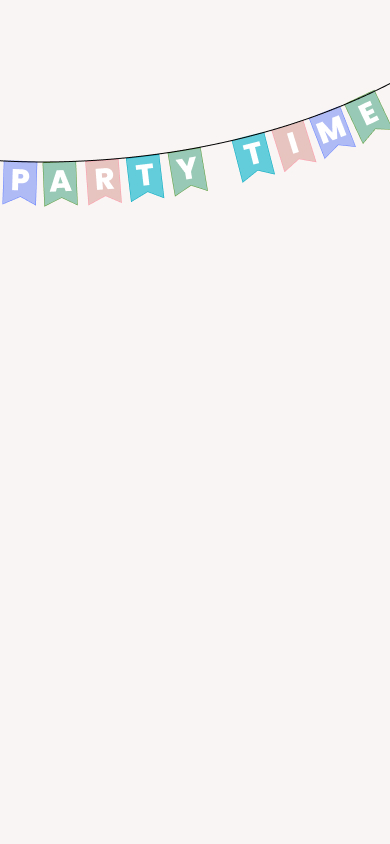
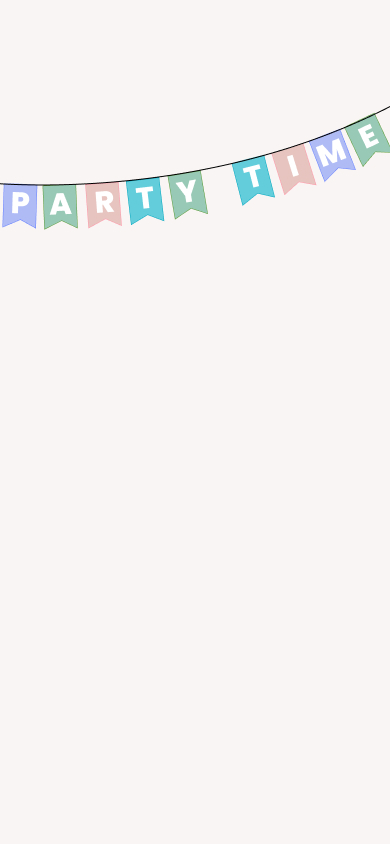
finished html and css for madlibs

Changed region(s): [[0.0, 0.154, 0.5538, 0.2773], [0.5846, 0.0924, 1.0, 0.2464]]

diff --git a/studio1/styles.css b/studio1/styles.css
@@ -1,14 +1,15 @@
 body {
     background-image: url("images/madlibs-background-mobile.jpg");
-    background-size: contain;
+    background-size: cover;
     background-repeat: no-repeat;
     background-color: #F9F5F4;
+    overflow-y: hidden;
 }
 
 form {
     display: flex;
     flex-direction: column;
-    margin-top: 50px;
+    margin-top: 75px;
 }
 
 .form-question {
@@ -24,7 +25,7 @@ input {
 
 label {
     display: block;
-    margin-top: 25px;
+    margin-top: 10px;
     font-family: 'Poppins', sans-serif;
     font-size: 18px;
     font-weight: 400;
@@ -55,6 +56,18 @@ h2 {
     font-weight: 700;
     text-align: center;
     color: #59669B;
+    padding-top: 20px;
+}
+
+p {
+    font-family: 'Poppins', sans-serif;
+    font-size: 18px;
+    font-weight: 400;
+    text-align: center;
+    color: #000;
+    width: 50%;
+    margin: auto;
+    padding-top: 30px;
 }
 
 input[type="text"]:focus {
@@ -68,6 +81,110 @@ article {
     overflow: hidden;
 }
 
+.close {
+    display: block;
+    margin: auto;
+    margin-top: 20px;
+    color: white;
+    background-color: #59669B;
+    border-radius: 5px;
+    font-family: 'Poppins', sans-serif;
+    font-size: 18px;
+    font-weight: 700;
+    padding: 5px 10px;
+}
+
+.user-input {
+    font-family: 'Poppins', sans-serif;
+    font-size: 18px;
+    font-weight: 700;
+    text-decoration: underline;
+    color: #59669B;
+}
+
+.hidden {
+    visibility: hidden;
+    opacity: 0;
+}
+
+.showing {
+    visibility: visible;
+    opacity: 1;
+}
+
+.yellow-balloon {
+    position: fixed;
+    top: 500px;
+    left: 25px;
+    z-index: -1;
+    animation: balloonTranslateUpandDown 10s ease forwards infinite;
+}
+.purple-balloon {
+    position: fixed;
+    top: 275px;
+    right: 25px;
+    z-index: -1;
+    animation: balloonTranslateUpandDown 10s ease forwards infinite;
+}
+
+@keyframes balloonTranslateUpandDown {
+    0% {
+        transform: translateY(0px);
+    }
+    50% {
+        transform: translateY(-50px);
+    }
+    100% {
+        transform: translateY(0px);
+    }
+}
+
+#overlay {
+    position: absolute;
+    background-color: #F9F5F4;
+    top: 0;
+    left: 0;
+    width: 100vw;
+    height: 100vh;
+    transition-property: opacity, visibility;
+    transition-duration: 1s;
+    transition-timing-function: ease;
+}
+
+#overlay article {
+    box-sizing: border-box;
+    background-color: #F9F5F4;
+    width: 100vw;
+    height: 100vh;
+    position: absolute;
+    top: 50%;
+    left: 50%;
+    transform: translate(-50%, -50%);
+    overflow-y: hidden;
+    border-radius: 10px;
+}
+
+.animals {
+    position: absolute;
+    bottom: 0;
+    left: 50px;
+    display: block;
+    margin: auto;
+}
+
+.animals-animate {
+    animation: animalsTranslateUp 1s ease forwards;
+}
+
+@keyframes animalsTranslateUp {
+    0% {
+        transform: translateY(500px);
+    }
+    100% {
+        transform: translateY(0px);
+    }
+}
+
 @media only screen and (min-width: 600px) {
     body {
         background-image: url("images/madlibs-background.jpg");
@@ -78,15 +195,11 @@ article {
     }
 
     h1 {
-        font-size: 74px;
+        font-size: 50px;
     }
     
     h2 {
-        font-size: 24px;
-    }
-
-    label {
-        margin-top: 20px;
+        font-size: 18px;
     }
 
     #submit {
@@ -95,19 +208,9 @@ article {
         
     }
     
-    .hidden {
-        visibility: hidden;
-        opacity: 0;
-    }
-    
-    .showing {
-        visibility: visible;
-        opacity: 1;
-    }
-    
     #overlay {
         position: absolute;
-        background-color: #9FB0FF;
+        background-color: rgb(89, 102, 155, 0.5);
         top: 0;
         left: 0;
         width: 100vw;
@@ -122,27 +225,13 @@ article {
         background-color: #F9F5F4;
         padding: 20px;
         width: 50vw;
-        height: 80vh;
+        height: 90vh;
         position: absolute;
         top: 50%;
         left: 50%;
         transform: translate(-50%, -50%);
-        overflow-y: scroll;
+        overflow-y: hidden;
         border-radius: 10px;
-    }
-    
-    .close {
-        position: absolute;
-        bottom: 25px;
-        margin-top: 25px;
-        margin-bottom: 25px;
-        color: white;
-        background-color: #59669B;
-        border-radius: 5px;
-        font-family: 'Poppins', sans-serif;
-        font-size: 18px;
-        font-weight: 700;
-        padding: 5px 10px;
     }
     
     .yellow-balloon {
@@ -158,26 +247,12 @@ article {
         animation: balloonTranslateUpandDown 10s ease forwards infinite;
     }
 
-    @keyframes balloonTranslateUpandDown {
-        0% {
-            transform: translateY(0px);
-        }
-        50% {
-            transform: translateY(-50px);
-        }
-        100% {
-            transform: translateY(0px);
-        }
-    }
-
     .animals {
+        position: absolute;
+        bottom: 0px;
+        left: 25px;
         display: block;
         margin: auto;
-       
-    }
-
-    .animals-animate{
-        animation: animalsTranslateUp 1s ease forwards;
     }
 
     @keyframes animalsTranslateUp {
@@ -185,9 +260,8 @@ article {
             transform: translateY(100px);
         }
         100% {
-            transform: translateY(-200px);
+            transform: translateY(0px);
         }
     }
     
-
 }

diff --git a/studio1/index.html b/studio1/index.html
@@ -24,55 +24,55 @@
     <main>
         <form>
             <div class="form-question">
-                <label for "question1">Number</label>
+                <label for="question1">Number</label>
                 <input type="text" name ="question1" id="question1" required>
             </div>
 
             <div class="form-question">
-                <label for "question2">Food</label>
+                <label for="question2">Food</label>
                 <input type="text" name ="question2" id="question2" required>
             </div>
 
             <div class="form-question">
-                <label for "question3">Food</label>
+                <label for="question3">Food</label>
                 <input type="text" name ="question3" id="question3" required>
             </div>
 
             <div class="form-question">
-                <label for "question4">Food</label>
+                <label for="question4">Food</label>
                 <input type="text" name ="question4" id="question4" required>
             </div>
 
             <div class="form-question">
-                <label for "question5">Adverb</label>
+                <label for="question5">Adverb</label>
                 <input type="text" name ="question5" id="question5" required>
             </div>
             
             <div class="form-question">
-                <label for "question6">Noun</label>
+                <label for="question6">Noun</label>
                 <input type="text" name ="question6" id="question6" required>
             </div>
 
             <div class="form-question">
-                <label for "question7">Number</label>
+                <label for="question7">Number</label>
                 <input type="text" name ="question7" id="question7" required>
             </div>
 
             <div class="form-question">
-                <label for "question8">Number</label>
+                <label for="question8">Number</label>
                 <input type="text" name ="question8" id="question8" required>
             </div>
 
             <div class="form-question">
-                <label for "question9">Adjective</label>
+                <label for="question9">Adjective</label>
                 <input type="text" name ="question9" id="question9" required>
             </div>
 
             <input type="submit" name="submit" id="submit">
         </form>
 
-        <img class="yellow-balloon" src="images/yellow-balloon.png">
-        <img class="purple-balloon" src="images/purple-balloon.png">
+        <img class="yellow-balloon" src="images/yellow-balloon.png" alt="yellow balloon">
+        <img class="purple-balloon" src="images/purple-balloon.png" alt="purple balloon">
     </main>
 
     <section id="overlay" class="hidden">
@@ -82,7 +82,7 @@
             <p>My best friend is turning [number] years old, and I want to bake them a cake. After mixing [food], [food], and [food] [adverb], I put it in the [noun] to bake at [number] degrees for [number] minutes. My friend said that the cake is very [adjective]!
             </p>
             <button class="close">Close X</button>
-            <img class="animals" src="images/animals.png">
+            <img class="animals" src="images/animals.png" alt="bear with cake">
         </article>
     </section>
 
